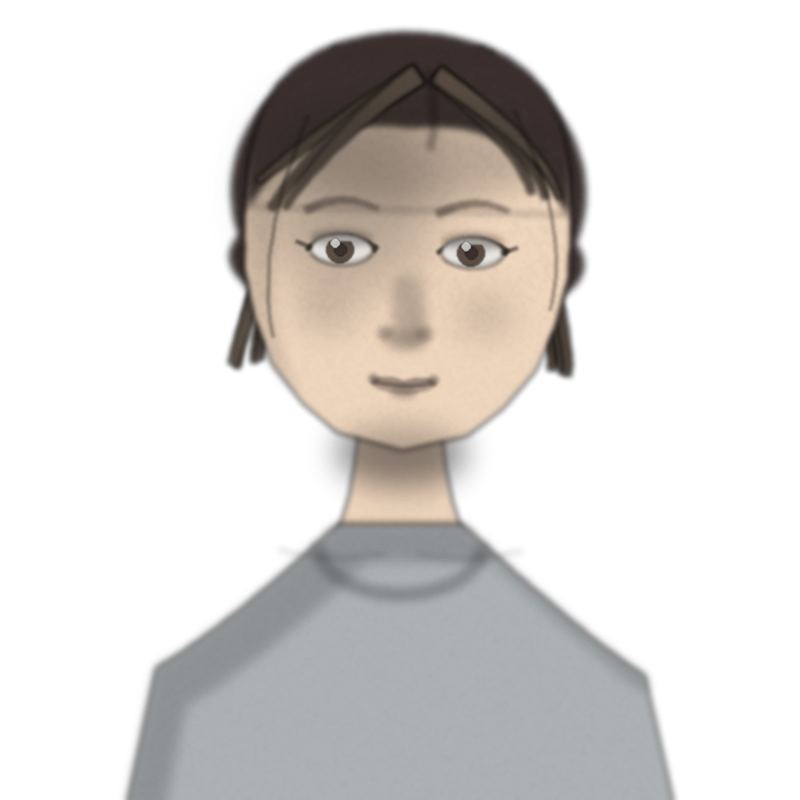
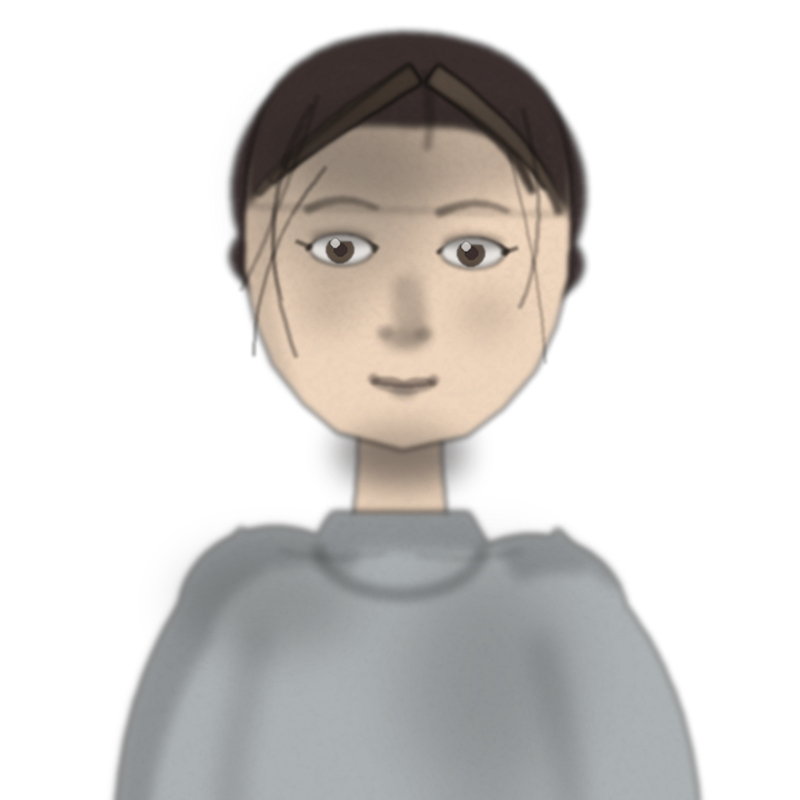
feat: 髪と、肩から袖の輪郭を整えた
■ 髪
  毛束  8本 → 13本。**太さをそろえない。**
        三本に一本は細く（7px）、あとは太く（17px）。
        同じ太さを等間隔に並べると、それは髪ではなく簾になる。
  流れ  一本おきに内へ入れる／外へ逃がす。
        全部が外向きだと、顔の横で板になる。
  後れ毛 2本 → 5〜6本。太さも長さも散らす。
        二本では整いすぎて、かつらに見えた。
  つや  **一本線をやめて、淡い面にした。**
        線で入れると、髪に針金が一本乗っているように見える。
        頭の丸みに沿った横長の楕円と、途切れた明るい面を三つ。

■ 肩と袖
  **一枚の面をやめた。** 肩から下を大きな三角でひと塗りしていたので、
  服ではなく「布をかぶった山」に見えていた。
  人の上半身は、胴と腕という別のかたまりでできている。
    胴    首から下へ、ゆるく広がる
    肩    胴の上で外へ張り出し、丸くとじる
    上腕  肩から下へ、胴とは別のかたまりとして落ちる
  **左右をそろえない。** 肩の高さ・腕の太さ・落ちる角度を、
  spec の shoulder から左右別々に振る。完全対称は人ではなく紋章。
  立体感はごく弱く（参考画のNG例「影が濃すぎる」）
    腕と胴の境目 0.24 ／ 胸の丸み 0.20 ／ 肩の上の光 0.26

■ 途中の失敗（記録）
  ・肩の上に白い切れ込みが出た。原因は二つあった。
    一．首の裾（±72）が服の襟もと（±60）より広く、肌の三角がのぞいた
        → 首を細く（±52）、服を広く（±68）
    二．肩の丸みの中心を外に置きすぎて、上端が胴の輪郭より外に出た
        実測：y=566 で胴の半幅103に対し、丸みの上端が150 → 47px の穴
        → 中心を 128 まで内へ寄せ、上端でも 57 まで届かせた
  ・挨拶の画面で、入ってきた様子の一行とお客さまの言葉がくっついていた
    → 間を空けた（どこまでが地の文か分からなくなる）

■ 8人ぶんの個体差は、そのまま維持
  顔の縦横・首の傾き・肩の傾き・視線・髪型・目の色。

■ 通し確認
  7場面すべて通過（普通のビルドでも、一枚のHTMLでも）。

Claude-Session: https://claude.ai/code/session_01NKV57SwEiDA72EkGzXeu8N

diff --git a/src/screens/GreetingScreen.css b/src/screens/GreetingScreen.css
@@ -12,7 +12,12 @@
 .greet__entrance {
   align-self: center;
   width: min(100%, 360px);
-  margin: var(--fs-space-md) 0 0;
+  /*
+   * 下に余白を取ります。**この一行と、お客さまの言葉がくっついていました。**
+   * 「入ってきた様子」と「言ったこと」は別のものなので、
+   * 間が無いと、どこまでが地の文でどこからが台詞か分かりません。
+   */
+  margin: var(--fs-space-md) 0 var(--fs-space-md);
   padding: 3px var(--fs-space-lg);
   text-align: center;
   background: radial-gradient(

diff --git a/tools/placeholder_art/people.py b/tools/placeholder_art/people.py
@@ -308,23 +308,32 @@ def _hair_back(img: Image.Image, spec: dict, cx: float, cy: float, fw: float,
 
     img.alpha_composite(wc_layer(size, base, dark, rng.randint(0, 9999), 3.6, 0.12))
 
-    # 毛束。地より明るい帯を、流れにそって。**顔の外側だけ。**
-    for i in range(8):
-        t = i / 7
+    # ── 毛束 ─────────────────────────────────────────
+    #
+    # **太さをそろえないこと。** 同じ太さの帯を等間隔に並べると、
+    # それは髪ではなく**簾（すだれ）**です。
+    # 太い束のあいだに細い束が混じるから、髪に見えます。
+    #
+    # **内外に流れを作ること。** 全部が外へ流れると板になります。
+    # 顔の横では、内へ入る束と外へ逃げる束を混ぜます。
+    for i in range(13):
+        t = i / 12
         side = -1 if t < 0.5 else 1
-        spread = 0.35 + abs(t - 0.5) * 1.3
+        spread = 0.30 + abs(t - 0.5) * 1.4
         drop = (length * 0.8) if style in ("long", "wave") else 22
+        # 三本に一本は細い。太さの差が、束の数に見える。
+        thin = (i % 3 == 0)
+        w0 = (7 if thin else 17) + rng.uniform(0, 9)
+        w1 = (3 if thin else 6) + rng.uniform(0, 5)
+        # 内へ入るか、外へ逃げるか。半分ずつ。
+        inward = -1 if (i % 2 == 0) else 1
         path = bezier(
-            (cx + side * fw * (10 + spread * 40), top + fh * (4 + rng.uniform(-6, 8))),
-            (cx + side * fw * (86 + spread * 34), cy + fh * (10 + spread * 30)),
-            (cx + side * fw * (92 + spread * 26) + rng.uniform(-10, 10),
-             cy + fh * (52 + drop * (0.4 + spread * 0.5))),
+            (cx + side * fw * (8 + spread * 44), top + fh * (2 + rng.uniform(-8, 10))),
+            (cx + side * fw * (86 + spread * 34 + inward * 14), cy + fh * (6 + spread * 34)),
+            (cx + side * fw * (92 + spread * 26 + inward * 22) + rng.uniform(-12, 12),
+             cy + fh * (52 + drop * (0.35 + spread * 0.55))),
             30)
-        band = tapered_band(path, 15 + rng.uniform(0, 8), 5 + rng.uniform(0, 5))
-        tone = mix(hair, light, 0.16 + 0.5 * rng.random())
-        img.alpha_composite(wc_layer(size, lambda d, b=band: d.polygon(b, fill=255),
-                                     tone, rng.randint(0, 9999), 2.6, 0.10))
-
+        band = tapered_band(path, w0, w1)
     # つや。左上に、ゆるい弧が一本。**光は左上ひとつ。**
     gl = bezier((cx - fw * 88, cy - fh * 92), (cx - fw * 24, cy - fh * 132),
                 (cx + fw * 44, cy - fh * 96), 22)
@@ -395,14 +404,23 @@ def _hair_front(img: Image.Image, spec: dict, cx: float, cy: float, fw: float,
         [cx - fw * 92, cy - fh * 116, cx + fw * 92, cy - fh * 52], fill=255)), 16),
         shade(hex_rgb(spec.get("skin", "#F2D9C4")), -0.34), 0.26)
 
-    # 後れ毛。顔の輪郭にかかる、細いのを二本だけ。
-    for _ in range(2):
-        s = rng.choice((-1, 1))
-        strand = bezier((cx + s * fw * rng.uniform(56, 78), cy - fh * rng.uniform(96, 118)),
-                        (cx + s * fw * rng.uniform(96, 116), cy - fh * rng.uniform(10, 40)),
-                        (cx + s * fw * rng.uniform(84, 104), cy + fh * rng.uniform(20, 60)), 20)
-        _over(img, _soft(_mask(size, lambda d, p=strand: d.line(p, fill=255, width=3)), 1.6),
-              mix(hair, light, 0.3), 0.45)
+    # ── 後れ毛 ───────────────────────────────────────
+    #
+    # **輪郭からはみ出す毛が、髪をやわらかく見せます。**
+    # 二本では足りませんでした（きれいに整いすぎて、かつらに見える）。
+    # 太さも長さも散らして、五、六本。
+    for i in range(rng.randint(5, 6)):
+        sd = rng.choice((-1, 1))
+        y0 = cy - fh * rng.uniform(70, 130)
+        strand = bezier(
+            (cx + sd * fw * rng.uniform(50, 84), y0),
+            (cx + sd * fw * rng.uniform(92, 124), cy - fh * rng.uniform(-6, 44)),
+            (cx + sd * fw * rng.uniform(76, 112) + rng.uniform(-10, 10),
+             cy + fh * rng.uniform(14, 76)),
+            22)
+        wid = rng.choice((2, 2, 3, 4))
+        _over(img, _soft(_mask(size, lambda d, q=strand, ww=wid: d.line(q, fill=255, width=ww)),
+                         1.5), mix(hair, light, rng.uniform(0.15, 0.45)), rng.uniform(0.30, 0.5))
 
 
 # --------------------------------------------------------------------------
@@ -444,29 +462,96 @@ def render_customer(spec: dict, mood: str, seed: int = 0) -> Image.Image:
     # ── 1. 体 ────────────────────────────────────────────
     # なで肩。参考画のNG例「ポーズが硬い」を避けるため、
     # 左右の高さをわずかに変え、肩先を丸くする。
-    def body(d):
-        # なで肩。左右の高さをわずかに変えて、硬いポーズを避ける。
-        ly = h * 0.84 + shoulder * 12
-        ry = h * 0.84 - shoulder * 12
-        pts = (bezier((cx - 62, neck_y + 4), (cx - 168, h * 0.78), (cx - 244, ly), 26)
-               + [(cx - 272, h), (cx + 272, h)]
-               + list(reversed(bezier((cx + 62, neck_y + 4), (cx + 168, h * 0.78),
-                                      (cx + 244, ry), 26))))
+    # ── 体 ────────────────────────────────────────────
+    #
+    # **一枚の面をやめました。**
+    #
+    # 肩から下を大きな三角でひと塗りしていたので、
+    # 服ではなく**布をかぶった山**に見えていました。
+    # 人の上半身は、胴と腕という別のかたまりでできています。
+    #
+    #   胴    首から下へ、ゆるく広がる
+    #   肩    胴の上で外へ張り出し、丸くとじる
+    #   上腕  肩から下へ、胴とは別のかたまりとして落ちる
+    #
+    # **左右をそろえないこと。** 完全対称は、人ではなく紋章です。
+    # 肩の高さ・腕の太さ・落ちる角度を、左右で少しずつ変えます。
+    sway = spec.get("shoulder", 0.0)
+    arm_l = 1.0 + sway * 0.10
+    arm_r = 1.0 - sway * 0.08
+    sh_y_l = h * 0.815 + sway * 14
+    sh_y_r = h * 0.815 - sway * 11
+
+    def torso(d):
+        pts = (bezier((cx - 68, neck_y - 8), (cx - 132, h * 0.775), (cx - 176, sh_y_l), 24)
+               + bezier((cx - 176, sh_y_l), (cx - 198, h * 0.92), (cx - 206, h), 18)
+               + [(cx + 206, h)]
+               + list(reversed(
+                   bezier((cx + 68, neck_y - 8), (cx + 132, h * 0.775), (cx + 176, sh_y_r), 24)
+                   + bezier((cx + 176, sh_y_r), (cx + 198, h * 0.92), (cx + 206, h), 18))))
         d.polygon(pts, fill=255)
+
+    def arms(d):
+        # 肩先 → ひじ。胴とは別のかたまり。
+        #
+        # **胴に深く重ねること。** 一度、肩の丸みを外に置きすぎて、
+        # 胴とのあいだに**穴**が空きました（肩の上に白い切れ込みが出た）。
+        # 腕は胴から生えているので、付け根は胴の中にあります。
+        for s2, k2, sh_y in ((-1, arm_l, sh_y_l), (1, arm_r, sh_y_r)):
+            path = bezier((cx + s2 * 110, sh_y - 66),
+                          (cx + s2 * 222 * k2, sh_y + 24),
+                          (cx + s2 * 240 * k2, h + 20), 26)
+            d.polygon(tapered_band(path, 150 * k2, 106 * k2), fill=255)
+            # 肩のまるみ。**付け根は胴の中へ。**
+            #
+            # 中心を外へ置くと、丸みの上端が胴の輪郭より外に出て、
+            # そこに**背景が抜けます**（肩の上に白い切れ込みが出た）。
+            # 実測：y=566 で胴の半幅103に対し、丸みの上端が150 → 47px の穴。
+            # 中心を 128 まで内へ寄せると、上端でも 57 まで届いて重なります。
+            d.ellipse([cx + s2 * 128 * k2 - 96, sh_y - 120,
+                       cx + s2 * 128 * k2 + 96, sh_y + 52], fill=255)
+
+    def body(d):
+        torso(d)
+        arms(d)
 
     def neck(d):
         # 首は**見えていること。** 髪と服のあいだが詰まっていると、
         # 頭が体に直接載っているように見えます。
         # ただし**箱にしないこと。** 上は細く、肩へ向かって広がります。
-        side = (bezier((cx - 40, chin - 34), (cx - 44, neck_y - 20), (cx - 72, neck_y + 34), 20)
-                + [(cx + 72, neck_y + 34)]
-                + list(reversed(bezier((cx + 40, chin - 34), (cx + 44, neck_y - 20),
-                                       (cx + 72, neck_y + 34), 20))))
+        # **裾は、服より細いこと。**
+        # 一度、首の裾（±72）を服の襟もと（±60）より広くしたら、
+        # 肩の付け根に**肌の三角**がのぞきました。穴に見えます。
+        side = (bezier((cx - 40, chin - 34), (cx - 42, neck_y - 20), (cx - 52, neck_y + 30), 20)
+                + [(cx + 52, neck_y + 30)]
+                + list(reversed(bezier((cx + 40, chin - 34), (cx + 42, neck_y - 20),
+                                       (cx + 52, neck_y + 30), 20))))
         d.polygon(side, fill=255)
 
     img.alpha_composite(wc_layer(size, neck, skin, rng.randint(0, 9999), 3.0, 0.05))
     img.alpha_composite(wc_layer(size, body, cloth, rng.randint(0, 9999), 3.4, 0.09))
     img.alpha_composite(shade_side(size, body, cloth, rng.randint(0, 9999), 0.20))
+
+    # ── 立体感 ────────────────────────────────────────
+    #
+    # **ごく弱く。** 服はいちばん広い面なので、少し濃くしただけで
+    # 影が主張します（参考画のNG例「影が濃すぎる」）。
+    #
+    #   腕と胴の境目   ここが無いと、腕が胴に溶ける
+    #   胸の丸み       左上の光に対して、右下がわずかに落ちる
+    #   肩の上         光が乗る。ここだけ明るい
+    for s2, k2, sh_y in ((-1, arm_l, sh_y_l), (1, arm_r, sh_y_r)):
+        seam = bezier((cx + s2 * 138, sh_y - 20), (cx + s2 * 162, sh_y + 60),
+                      (cx + s2 * 172, h), 20)
+        _over(img, _soft(_mask(size, lambda d, q=seam: d.line(q, fill=255, width=16)), 13),
+              shade(cloth, -0.34), 0.24)
+    # 胸の丸み（右下が落ちる）
+    _over(img, _soft(_mask(size, lambda d: d.ellipse(
+        [cx + 6, neck_y + 40, cx + 168, h], fill=255)), 34), shade(cloth, -0.26), 0.20)
+    # 肩の上の光
+    _over(img, _soft(_mask(size, lambda d: d.ellipse(
+        [cx - 214, sh_y_l - 86, cx - 44, sh_y_l - 4], fill=255)), 26),
+        mix(cloth, (255, 252, 242), 0.55), 0.26)
 
     # あごが首に落とす影。**ここが無いと、頭が首に貼り付いて見えます。**
     _over(img, _soft(_mask(size, lambda d: d.ellipse(
